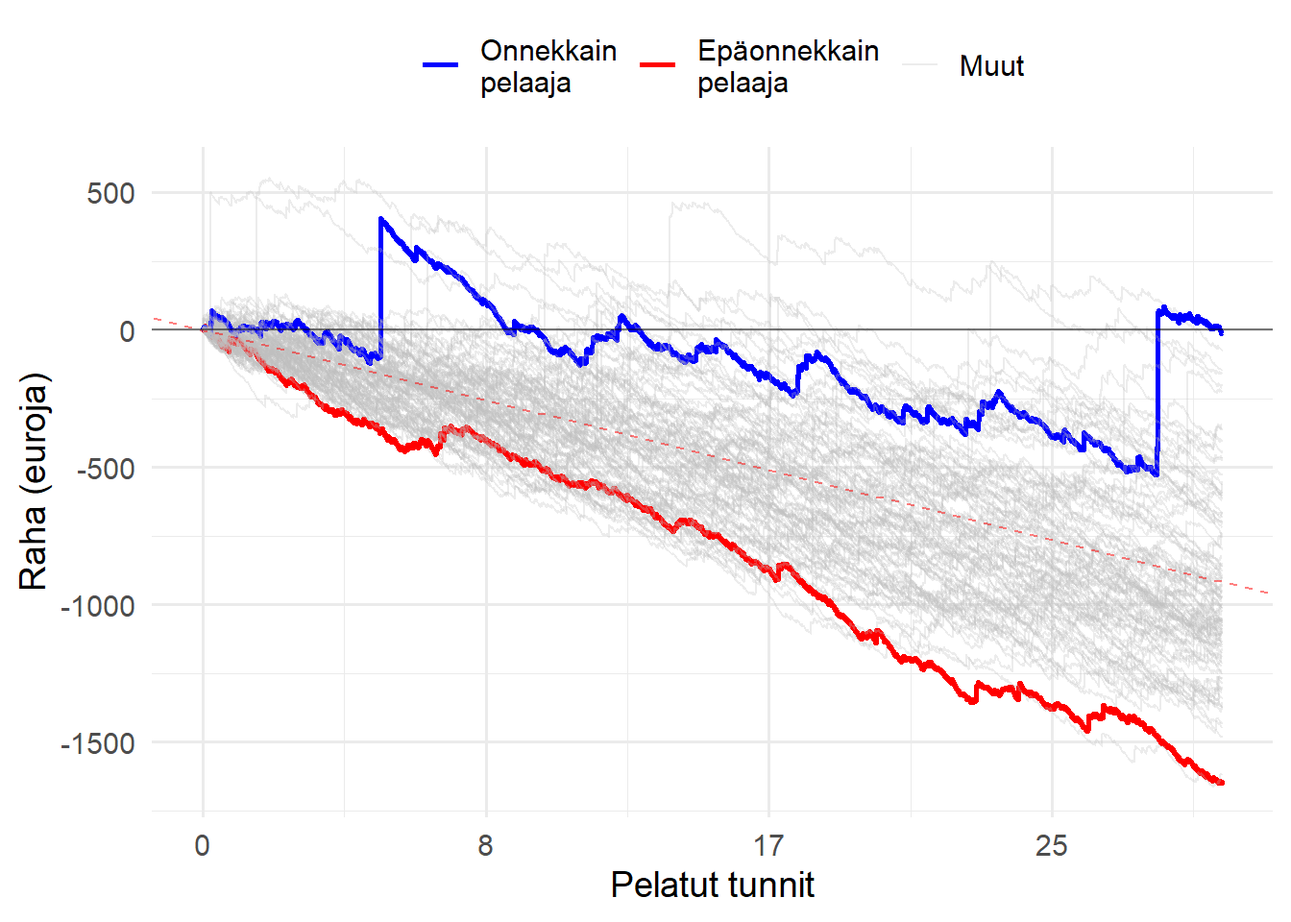
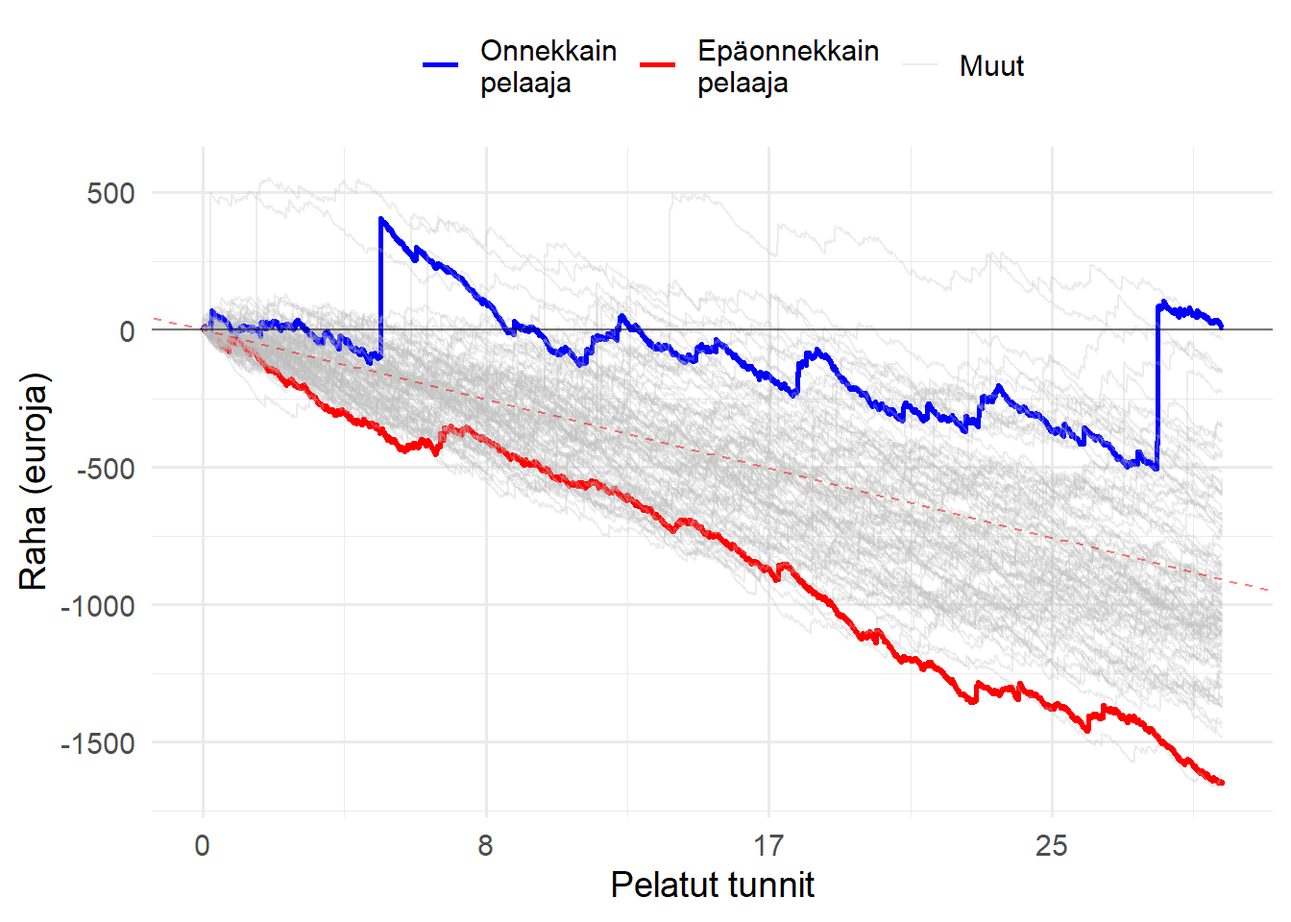
update

diff --git a/adjusting_variables.html b/adjusting_variables.html
@@ -365,6 +365,9 @@ div.tocify {
     <li>
       <a href="poker_simulator_animation.html">Poker variance simulator</a>
     </li>
+    <li>
+      <a href="videopoker_simulator.html">Videopokerisimulaattori (in Finnish)</a>
+    </li>
     <li class="divider"></li>
     <li class="dropdown-header">Content to be added</li>
     <li class="dropdown-header">TBA</li>
@@ -572,7 +575,7 @@ controlling for z merely reduces the variability in x:</p>
 <p>3d scatterplot:</p>
 <pre class="r"><code>OLS_visualizer(2,-2,0.8, &quot;3d&quot;)</code></pre>
 <div id="htmlwidget-72c4c1f4c48bc2d9714d" style="width:672px;height:480px;" class="plotly html-widget"></div>
-<script type="application/json" data-for="htmlwidget-72c4c1f4c48bc2d9714d">{"x":{"visdat":{"36ec5a503478":["function () ","plotlyVisDat"]},"cur_data":"36ec5a503478","attrs":{"36ec5a503478":{"x":[0.31085495641238,-0.0520464353045102,0.522579202941321,0.341249254036254,0.688516975685562,-2.11709514367188,-0.609031404817281,-0.709859360083,-0.248835610563112,-1.84775702505886,1.09517440858874,0.519663391436877,-1.71456433640338,-0.230494297003303,0.532956759084312,0.295284298581254,0.233707853616217,0.538662120260692,-0.269193229470511,0.312262260232234,0.753762378103371,-1.12161783164244,0.162241822286927,-0.614755113377645,0.245400566817298,-0.800562059642904,-0.0598937956236455,-0.568380292064193,0.424737653447154,0.394092969551822,0.352801428585162,0.468138217938677,-0.461991373711869,1.40377605333685,-0.874618824926513,1.29168612815949,0.0789206483578392,0.423910399547285,0.963218958378157,0.254205466623591,1.75502410708574,-1.32969494877127,1.81860102533616,0.581532190703476,0.777876827188424,0.410544735301677,-2.00675156151659,0.182757748437725,1.15349162038606,1.86077323983897,-0.377933328282843,-0.278328698261265,0.36033426242196,0.435133377342929,1.90804807998165,1.69776783060175,-1.19627748941927,0.161500863743166,1.49575019228862,-1.97128995385287,0.367522114903085,0.145075703314459,-0.873812784527575,-0.94190963067783,0.267724372942085,-2.18745127025797,-0.473889226691224,1.85756188160125,0.121233683695705,0.500021572672587,-2.18493444334109,-0.436377361699887,-0.308179678955058,-0.336310834376867,-0.19757498777725,0.062623846662712,-1.0138748346119,-2.12572260459879,-1.06446960158275,-1.48155217320545,0.935050879568882,-1.09687593685166,0.130049952546838,0.824579154719087,-0.377448744863543,0.200049774153956,-1.14060020846913,0.57069334891592,0.481487677845552,0.934238956410838,-0.096740939955459,-0.039075493638915,1.06360662729308,-0.644752842831254,1.68744798401772,1.15942283638065,-1.95906518209972,0.720583027548662,-0.923897229822331,0.129574456443967],"y":[-0.632469029142483,1.79501665853533,0.246989807783138,1.76441777365388,-1.98125704342689,1.20853819447843,1.20834847364629,1.43803443774424,0.648687614624098,-0.054585315144821,1.80473003578263,0.811738090339731,-1.41245320508927,-4.64903716559059,2.41682533577686,1.29926778291053,-0.487948460713588,-0.0801072522674631,1.65116247596695,0.636788642588897,-0.597510039270926,0.965243600925785,-0.680556841949899,-3.29733023429903,-0.437727909720595,1.57892149421246,-0.704257390378383,-3.8300203440646,-0.636497017956,0.695282195323865,0.77524365074527,-3.19300276355578,-0.241695828124132,0.325296347106017,-2.14854525020971,-0.852227226245305,-0.150634728227609,-1.42865932844918,2.48585482670126,0.915842181671843,0.301875097485784,0.537181570430926,1.03393571920966,-0.252762452264186,0.0279685673592833,-3.15758001527957,-0.161602384501926,0.673867623660246,-0.491248171128455,2.09050329191488,0.548817450557906,-0.607841265614926,0.2543357030089,-2.00111159147764,2.54448475649778,3.77048179353716,-3.06228414133941,-1.05733512411887,1.00904120732568,-0.748056037193659,4.18475723170407,-0.600019943560863,0.545569597087937,0.753555330196542,0.513259127033539,0.406983012659392,-3.11969708446258,0.706317035827446,-0.269714332043004,1.96905397719689,0.282869564090117,-0.757171962957854,-0.139767212778018,1.17996782424294,-1.76596308176864,1.38732713282318,-3.05774690647348,0.612198265809423,-1.35330995920799,-0.0501740942740713,-0.569009835282919,-0.740120368021603,2.8327491386781,-3.01566121086867,0.108541378952802,-0.686853445815867,0.691918543380786,0.355562124977239,0.797169924122145,1.21829812370991,-1.30897022500063,1.92877949934248,1.7174019942039,-0.584087531118845,3.84700226827586,0.756604313037095,-1.16940204672412,-0.0161331944886948,-1.9235596615279,-1.12954865279495],"z":[0.831790390809089,-0.105118121470154,1.19237851577074,-0.70641353313207,0.536527729752773,-1.47253344599401,-0.879672558257681,-1.15821291097327,-0.579879179448115,-1.56541015600998,0.110621474812591,0.324141667894267,-1.20846110584757,1.40892034701826,-0.18153677507668,0.40552291987576,0.323311799360204,-0.0479291314094219,-0.773653814615072,-0.0284866295092043,0.185908194326415,-1.6031737022652,0.187370076297804,0.863425713841667,-0.114021659640331,-0.6884518527904,0.126668881369936,0.543873173841567,0.841582881794895,0.178039695092626,-0.527733746992118,0.620179263876794,-0.66138431093236,1.52638169774409,0.169792162157037,1.66871036927952,0.434648376781702,0.545010744482137,0.26868006716465,-0.206387638351413,1.95774189204189,-1.08123186661801,1.41337337318898,0.26855961040256,1.34537482149245,0.989252270548726,-2.19834573926649,-0.282011417970892,1.31605518756779,1.32575354827359,-0.584231107010407,0.229175736258116,0.198339004411058,1.31185700227208,0.983581105042578,0.385641112441069,-0.866683526195495,0.976538203425519,1.17859179201511,-1.80989579603408,-1.24935009716054,0.250467084235702,-1.28876291397133,-0.889982406736199,0.870908458985616,-2.25591532611905,0.874867310646247,0.909846716257731,0.0905743602777017,-0.954420079180871,-2.45583551694554,0.139398203889826,-0.66422461857798,0.398288694049105,0.763412390939609,-0.0659360860214071,-0.629563371295211,-2.06132115890578,-1.04593720220453,-0.996563287263845,1.41862087493632,-0.930580042475748,-0.624195301703575,1.98179392552996,-0.722026586460212,0.0429404065491808,-1.82064878353622,0.865504763113842,0.299753790557061,0.827669503394403,0.362684840518017,-0.81528009742283,0.326988092434373,-1.0658377484631,0.653161493617511,0.848344510328943,-0.991564659158731,1.2062179632475,0.0125997502204857,0.541441072957958],"mode":"markers","alpha_stroke":1,"sizes":[10,100],"spans":[1,20],"type":"scatter3d"}},"layout":{"margin":{"b":40,"l":60,"t":25,"r":10},"scene":{"xaxis":{"title":[]},"yaxis":{"title":[]},"zaxis":{"title":[]}},"hovermode":"closest","showlegend":false},"source":"A","config":{"modeBarButtonsToAdd":["hoverclosest","hovercompare"],"showSendToCloud":false},"data":[{"x":[0.31085495641238,-0.0520464353045102,0.522579202941321,0.341249254036254,0.688516975685562,-2.11709514367188,-0.609031404817281,-0.709859360083,-0.248835610563112,-1.84775702505886,1.09517440858874,0.519663391436877,-1.71456433640338,-0.230494297003303,0.532956759084312,0.295284298581254,0.233707853616217,0.538662120260692,-0.269193229470511,0.312262260232234,0.753762378103371,-1.12161783164244,0.162241822286927,-0.614755113377645,0.245400566817298,-0.800562059642904,-0.0598937956236455,-0.568380292064193,0.424737653447154,0.394092969551822,0.352801428585162,0.468138217938677,-0.461991373711869,1.40377605333685,-0.874618824926513,1.29168612815949,0.0789206483578392,0.423910399547285,0.963218958378157,0.254205466623591,1.75502410708574,-1.32969494877127,1.81860102533616,0.581532190703476,0.777876827188424,0.410544735301677,-2.00675156151659,0.182757748437725,1.15349162038606,1.86077323983897,-0.377933328282843,-0.278328698261265,0.36033426242196,0.435133377342929,1.90804807998165,1.69776783060175,-1.19627748941927,0.161500863743166,1.49575019228862,-1.97128995385287,0.367522114903085,0.145075703314459,-0.873812784527575,-0.94190963067783,0.267724372942085,-2.18745127025797,-0.473889226691224,1.85756188160125,0.121233683695705,0.500021572672587,-2.18493444334109,-0.436377361699887,-0.308179678955058,-0.336310834376867,-0.19757498777725,0.062623846662712,-1.0138748346119,-2.12572260459879,-1.06446960158275,-1.48155217320545,0.935050879568882,-1.09687593685166,0.130049952546838,0.824579154719087,-0.377448744863543,0.200049774153956,-1.14060020846913,0.57069334891592,0.481487677845552,0.934238956410838,-0.096740939955459,-0.039075493638915,1.06360662729308,-0.644752842831254,1.68744798401772,1.15942283638065,-1.95906518209972,0.720583027548662,-0.923897229822331,0.129574456443967],"y":[-0.632469029142483,1.79501665853533,0.246989807783138,1.76441777365388,-1.98125704342689,1.20853819447843,1.20834847364629,1.43803443774424,0.648687614624098,-0.054585315144821,1.80473003578263,0.811738090339731,-1.41245320508927,-4.64903716559059,2.41682533577686,1.29926778291053,-0.487948460713588,-0.0801072522674631,1.65116247596695,0.636788642588897,-0.597510039270926,0.965243600925785,-0.680556841949899,-3.29733023429903,-0.437727909720595,1.57892149421246,-0.704257390378383,-3.8300203440646,-0.636497017956,0.695282195323865,0.77524365074527,-3.19300276355578,-0.241695828124132,0.325296347106017,-2.14854525020971,-0.852227226245305,-0.150634728227609,-1.42865932844918,2.48585482670126,0.915842181671843,0.301875097485784,0.537181570430926,1.03393571920966,-0.252762452264186,0.0279685673592833,-3.15758001527957,-0.161602384501926,0.673867623660246,-0.491248171128455,2.09050329191488,0.548817450557906,-0.607841265614926,0.2543357030089,-2.00111159147764,2.54448475649778,3.77048179353716,-3.06228414133941,-1.05733512411887,1.00904120732568,-0.748056037193659,4.18475723170407,-0.600019943560863,0.545569597087937,0.753555330196542,0.513259127033539,0.406983012659392,-3.11969708446258,0.706317035827446,-0.269714332043004,1.96905397719689,0.282869564090117,-0.757171962957854,-0.139767212778018,1.17996782424294,-1.76596308176864,1.38732713282318,-3.05774690647348,0.612198265809423,-1.35330995920799,-0.0501740942740713,-0.569009835282919,-0.740120368021603,2.8327491386781,-3.01566121086867,0.108541378952802,-0.686853445815867,0.691918543380786,0.355562124977239,0.797169924122145,1.21829812370991,-1.30897022500063,1.92877949934248,1.7174019942039,-0.584087531118845,3.84700226827586,0.756604313037095,-1.16940204672412,-0.0161331944886948,-1.9235596615279,-1.12954865279495],"z":[0.831790390809089,-0.105118121470154,1.19237851577074,-0.70641353313207,0.536527729752773,-1.47253344599401,-0.879672558257681,-1.15821291097327,-0.579879179448115,-1.56541015600998,0.110621474812591,0.324141667894267,-1.20846110584757,1.40892034701826,-0.18153677507668,0.40552291987576,0.323311799360204,-0.0479291314094219,-0.773653814615072,-0.0284866295092043,0.185908194326415,-1.6031737022652,0.187370076297804,0.863425713841667,-0.114021659640331,-0.6884518527904,0.126668881369936,0.543873173841567,0.841582881794895,0.178039695092626,-0.527733746992118,0.620179263876794,-0.66138431093236,1.52638169774409,0.169792162157037,1.66871036927952,0.434648376781702,0.545010744482137,0.26868006716465,-0.206387638351413,1.95774189204189,-1.08123186661801,1.41337337318898,0.26855961040256,1.34537482149245,0.989252270548726,-2.19834573926649,-0.282011417970892,1.31605518756779,1.32575354827359,-0.584231107010407,0.229175736258116,0.198339004411058,1.31185700227208,0.983581105042578,0.385641112441069,-0.866683526195495,0.976538203425519,1.17859179201511,-1.80989579603408,-1.24935009716054,0.250467084235702,-1.28876291397133,-0.889982406736199,0.870908458985616,-2.25591532611905,0.874867310646247,0.909846716257731,0.0905743602777017,-0.954420079180871,-2.45583551694554,0.139398203889826,-0.66422461857798,0.398288694049105,0.763412390939609,-0.0659360860214071,-0.629563371295211,-2.06132115890578,-1.04593720220453,-0.996563287263845,1.41862087493632,-0.930580042475748,-0.624195301703575,1.98179392552996,-0.722026586460212,0.0429404065491808,-1.82064878353622,0.865504763113842,0.299753790557061,0.827669503394403,0.362684840518017,-0.81528009742283,0.326988092434373,-1.0658377484631,0.653161493617511,0.848344510328943,-0.991564659158731,1.2062179632475,0.0125997502204857,0.541441072957958],"mode":"markers","type":"scatter3d","marker":{"color":"rgba(31,119,180,1)","line":{"color":"rgba(31,119,180,1)"}},"error_y":{"color":"rgba(31,119,180,1)"},"error_x":{"color":"rgba(31,119,180,1)"},"line":{"color":"rgba(31,119,180,1)"},"frame":null}],"highlight":{"on":"plotly_click","persistent":false,"dynamic":false,"selectize":false,"opacityDim":0.2,"selected":{"opacity":1},"debounce":0},"shinyEvents":["plotly_hover","plotly_click","plotly_selected","plotly_relayout","plotly_brushed","plotly_brushing","plotly_clickannotation","plotly_doubleclick","plotly_deselect","plotly_afterplot","plotly_sunburstclick"],"base_url":"https://plot.ly"},"evals":[],"jsHooks":[]}</script>
+<script type="application/json" data-for="htmlwidget-72c4c1f4c48bc2d9714d">{"x":{"visdat":{"34382d9f3fcb":["function () ","plotlyVisDat"]},"cur_data":"34382d9f3fcb","attrs":{"34382d9f3fcb":{"x":[0.31085495641238,-0.0520464353045102,0.522579202941321,0.341249254036254,0.688516975685562,-2.11709514367188,-0.609031404817281,-0.709859360083,-0.248835610563112,-1.84775702505886,1.09517440858874,0.519663391436877,-1.71456433640338,-0.230494297003303,0.532956759084312,0.295284298581254,0.233707853616217,0.538662120260692,-0.269193229470511,0.312262260232234,0.753762378103371,-1.12161783164244,0.162241822286927,-0.614755113377645,0.245400566817298,-0.800562059642904,-0.0598937956236455,-0.568380292064193,0.424737653447154,0.394092969551822,0.352801428585162,0.468138217938677,-0.461991373711869,1.40377605333685,-0.874618824926513,1.29168612815949,0.0789206483578392,0.423910399547285,0.963218958378157,0.254205466623591,1.75502410708574,-1.32969494877127,1.81860102533616,0.581532190703476,0.777876827188424,0.410544735301677,-2.00675156151659,0.182757748437725,1.15349162038606,1.86077323983897,-0.377933328282843,-0.278328698261265,0.36033426242196,0.435133377342929,1.90804807998165,1.69776783060175,-1.19627748941927,0.161500863743166,1.49575019228862,-1.97128995385287,0.367522114903085,0.145075703314459,-0.873812784527575,-0.94190963067783,0.267724372942085,-2.18745127025797,-0.473889226691224,1.85756188160125,0.121233683695705,0.500021572672587,-2.18493444334109,-0.436377361699887,-0.308179678955058,-0.336310834376867,-0.19757498777725,0.062623846662712,-1.0138748346119,-2.12572260459879,-1.06446960158275,-1.48155217320545,0.935050879568882,-1.09687593685166,0.130049952546838,0.824579154719087,-0.377448744863543,0.200049774153956,-1.14060020846913,0.57069334891592,0.481487677845552,0.934238956410838,-0.096740939955459,-0.039075493638915,1.06360662729308,-0.644752842831254,1.68744798401772,1.15942283638065,-1.95906518209972,0.720583027548662,-0.923897229822331,0.129574456443967],"y":[-0.632469029142483,1.79501665853533,0.246989807783138,1.76441777365388,-1.98125704342689,1.20853819447843,1.20834847364629,1.43803443774424,0.648687614624098,-0.054585315144821,1.80473003578263,0.811738090339731,-1.41245320508927,-4.64903716559059,2.41682533577686,1.29926778291053,-0.487948460713588,-0.0801072522674631,1.65116247596695,0.636788642588897,-0.597510039270926,0.965243600925785,-0.680556841949899,-3.29733023429903,-0.437727909720595,1.57892149421246,-0.704257390378383,-3.8300203440646,-0.636497017956,0.695282195323865,0.77524365074527,-3.19300276355578,-0.241695828124132,0.325296347106017,-2.14854525020971,-0.852227226245305,-0.150634728227609,-1.42865932844918,2.48585482670126,0.915842181671843,0.301875097485784,0.537181570430926,1.03393571920966,-0.252762452264186,0.0279685673592833,-3.15758001527957,-0.161602384501926,0.673867623660246,-0.491248171128455,2.09050329191488,0.548817450557906,-0.607841265614926,0.2543357030089,-2.00111159147764,2.54448475649778,3.77048179353716,-3.06228414133941,-1.05733512411887,1.00904120732568,-0.748056037193659,4.18475723170407,-0.600019943560863,0.545569597087937,0.753555330196542,0.513259127033539,0.406983012659392,-3.11969708446258,0.706317035827446,-0.269714332043004,1.96905397719689,0.282869564090117,-0.757171962957854,-0.139767212778018,1.17996782424294,-1.76596308176864,1.38732713282318,-3.05774690647348,0.612198265809423,-1.35330995920799,-0.0501740942740713,-0.569009835282919,-0.740120368021603,2.8327491386781,-3.01566121086867,0.108541378952802,-0.686853445815867,0.691918543380786,0.355562124977239,0.797169924122145,1.21829812370991,-1.30897022500063,1.92877949934248,1.7174019942039,-0.584087531118845,3.84700226827586,0.756604313037095,-1.16940204672412,-0.0161331944886948,-1.9235596615279,-1.12954865279495],"z":[0.831790390809089,-0.105118121470154,1.19237851577074,-0.70641353313207,0.536527729752773,-1.47253344599401,-0.879672558257681,-1.15821291097327,-0.579879179448115,-1.56541015600998,0.110621474812591,0.324141667894267,-1.20846110584757,1.40892034701826,-0.18153677507668,0.40552291987576,0.323311799360204,-0.0479291314094219,-0.773653814615072,-0.0284866295092043,0.185908194326415,-1.6031737022652,0.187370076297804,0.863425713841667,-0.114021659640331,-0.6884518527904,0.126668881369936,0.543873173841567,0.841582881794895,0.178039695092626,-0.527733746992118,0.620179263876794,-0.66138431093236,1.52638169774409,0.169792162157037,1.66871036927952,0.434648376781702,0.545010744482137,0.26868006716465,-0.206387638351413,1.95774189204189,-1.08123186661801,1.41337337318898,0.26855961040256,1.34537482149245,0.989252270548726,-2.19834573926649,-0.282011417970892,1.31605518756779,1.32575354827359,-0.584231107010407,0.229175736258116,0.198339004411058,1.31185700227208,0.983581105042578,0.385641112441069,-0.866683526195495,0.976538203425519,1.17859179201511,-1.80989579603408,-1.24935009716054,0.250467084235702,-1.28876291397133,-0.889982406736199,0.870908458985616,-2.25591532611905,0.874867310646247,0.909846716257731,0.0905743602777017,-0.954420079180871,-2.45583551694554,0.139398203889826,-0.66422461857798,0.398288694049105,0.763412390939609,-0.0659360860214071,-0.629563371295211,-2.06132115890578,-1.04593720220453,-0.996563287263845,1.41862087493632,-0.930580042475748,-0.624195301703575,1.98179392552996,-0.722026586460212,0.0429404065491808,-1.82064878353622,0.865504763113842,0.299753790557061,0.827669503394403,0.362684840518017,-0.81528009742283,0.326988092434373,-1.0658377484631,0.653161493617511,0.848344510328943,-0.991564659158731,1.2062179632475,0.0125997502204857,0.541441072957958],"mode":"markers","alpha_stroke":1,"sizes":[10,100],"spans":[1,20],"type":"scatter3d"}},"layout":{"margin":{"b":40,"l":60,"t":25,"r":10},"scene":{"xaxis":{"title":[]},"yaxis":{"title":[]},"zaxis":{"title":[]}},"hovermode":"closest","showlegend":false},"source":"A","config":{"modeBarButtonsToAdd":["hoverclosest","hovercompare"],"showSendToCloud":false},"data":[{"x":[0.31085495641238,-0.0520464353045102,0.522579202941321,0.341249254036254,0.688516975685562,-2.11709514367188,-0.609031404817281,-0.709859360083,-0.248835610563112,-1.84775702505886,1.09517440858874,0.519663391436877,-1.71456433640338,-0.230494297003303,0.532956759084312,0.295284298581254,0.233707853616217,0.538662120260692,-0.269193229470511,0.312262260232234,0.753762378103371,-1.12161783164244,0.162241822286927,-0.614755113377645,0.245400566817298,-0.800562059642904,-0.0598937956236455,-0.568380292064193,0.424737653447154,0.394092969551822,0.352801428585162,0.468138217938677,-0.461991373711869,1.40377605333685,-0.874618824926513,1.29168612815949,0.0789206483578392,0.423910399547285,0.963218958378157,0.254205466623591,1.75502410708574,-1.32969494877127,1.81860102533616,0.581532190703476,0.777876827188424,0.410544735301677,-2.00675156151659,0.182757748437725,1.15349162038606,1.86077323983897,-0.377933328282843,-0.278328698261265,0.36033426242196,0.435133377342929,1.90804807998165,1.69776783060175,-1.19627748941927,0.161500863743166,1.49575019228862,-1.97128995385287,0.367522114903085,0.145075703314459,-0.873812784527575,-0.94190963067783,0.267724372942085,-2.18745127025797,-0.473889226691224,1.85756188160125,0.121233683695705,0.500021572672587,-2.18493444334109,-0.436377361699887,-0.308179678955058,-0.336310834376867,-0.19757498777725,0.062623846662712,-1.0138748346119,-2.12572260459879,-1.06446960158275,-1.48155217320545,0.935050879568882,-1.09687593685166,0.130049952546838,0.824579154719087,-0.377448744863543,0.200049774153956,-1.14060020846913,0.57069334891592,0.481487677845552,0.934238956410838,-0.096740939955459,-0.039075493638915,1.06360662729308,-0.644752842831254,1.68744798401772,1.15942283638065,-1.95906518209972,0.720583027548662,-0.923897229822331,0.129574456443967],"y":[-0.632469029142483,1.79501665853533,0.246989807783138,1.76441777365388,-1.98125704342689,1.20853819447843,1.20834847364629,1.43803443774424,0.648687614624098,-0.054585315144821,1.80473003578263,0.811738090339731,-1.41245320508927,-4.64903716559059,2.41682533577686,1.29926778291053,-0.487948460713588,-0.0801072522674631,1.65116247596695,0.636788642588897,-0.597510039270926,0.965243600925785,-0.680556841949899,-3.29733023429903,-0.437727909720595,1.57892149421246,-0.704257390378383,-3.8300203440646,-0.636497017956,0.695282195323865,0.77524365074527,-3.19300276355578,-0.241695828124132,0.325296347106017,-2.14854525020971,-0.852227226245305,-0.150634728227609,-1.42865932844918,2.48585482670126,0.915842181671843,0.301875097485784,0.537181570430926,1.03393571920966,-0.252762452264186,0.0279685673592833,-3.15758001527957,-0.161602384501926,0.673867623660246,-0.491248171128455,2.09050329191488,0.548817450557906,-0.607841265614926,0.2543357030089,-2.00111159147764,2.54448475649778,3.77048179353716,-3.06228414133941,-1.05733512411887,1.00904120732568,-0.748056037193659,4.18475723170407,-0.600019943560863,0.545569597087937,0.753555330196542,0.513259127033539,0.406983012659392,-3.11969708446258,0.706317035827446,-0.269714332043004,1.96905397719689,0.282869564090117,-0.757171962957854,-0.139767212778018,1.17996782424294,-1.76596308176864,1.38732713282318,-3.05774690647348,0.612198265809423,-1.35330995920799,-0.0501740942740713,-0.569009835282919,-0.740120368021603,2.8327491386781,-3.01566121086867,0.108541378952802,-0.686853445815867,0.691918543380786,0.355562124977239,0.797169924122145,1.21829812370991,-1.30897022500063,1.92877949934248,1.7174019942039,-0.584087531118845,3.84700226827586,0.756604313037095,-1.16940204672412,-0.0161331944886948,-1.9235596615279,-1.12954865279495],"z":[0.831790390809089,-0.105118121470154,1.19237851577074,-0.70641353313207,0.536527729752773,-1.47253344599401,-0.879672558257681,-1.15821291097327,-0.579879179448115,-1.56541015600998,0.110621474812591,0.324141667894267,-1.20846110584757,1.40892034701826,-0.18153677507668,0.40552291987576,0.323311799360204,-0.0479291314094219,-0.773653814615072,-0.0284866295092043,0.185908194326415,-1.6031737022652,0.187370076297804,0.863425713841667,-0.114021659640331,-0.6884518527904,0.126668881369936,0.543873173841567,0.841582881794895,0.178039695092626,-0.527733746992118,0.620179263876794,-0.66138431093236,1.52638169774409,0.169792162157037,1.66871036927952,0.434648376781702,0.545010744482137,0.26868006716465,-0.206387638351413,1.95774189204189,-1.08123186661801,1.41337337318898,0.26855961040256,1.34537482149245,0.989252270548726,-2.19834573926649,-0.282011417970892,1.31605518756779,1.32575354827359,-0.584231107010407,0.229175736258116,0.198339004411058,1.31185700227208,0.983581105042578,0.385641112441069,-0.866683526195495,0.976538203425519,1.17859179201511,-1.80989579603408,-1.24935009716054,0.250467084235702,-1.28876291397133,-0.889982406736199,0.870908458985616,-2.25591532611905,0.874867310646247,0.909846716257731,0.0905743602777017,-0.954420079180871,-2.45583551694554,0.139398203889826,-0.66422461857798,0.398288694049105,0.763412390939609,-0.0659360860214071,-0.629563371295211,-2.06132115890578,-1.04593720220453,-0.996563287263845,1.41862087493632,-0.930580042475748,-0.624195301703575,1.98179392552996,-0.722026586460212,0.0429404065491808,-1.82064878353622,0.865504763113842,0.299753790557061,0.827669503394403,0.362684840518017,-0.81528009742283,0.326988092434373,-1.0658377484631,0.653161493617511,0.848344510328943,-0.991564659158731,1.2062179632475,0.0125997502204857,0.541441072957958],"mode":"markers","type":"scatter3d","marker":{"color":"rgba(31,119,180,1)","line":{"color":"rgba(31,119,180,1)"}},"error_y":{"color":"rgba(31,119,180,1)"},"error_x":{"color":"rgba(31,119,180,1)"},"line":{"color":"rgba(31,119,180,1)"},"frame":null}],"highlight":{"on":"plotly_click","persistent":false,"dynamic":false,"selectize":false,"opacityDim":0.2,"selected":{"opacity":1},"debounce":0},"shinyEvents":["plotly_hover","plotly_click","plotly_selected","plotly_relayout","plotly_brushed","plotly_brushing","plotly_clickannotation","plotly_doubleclick","plotly_deselect","plotly_afterplot","plotly_sunburstclick"],"base_url":"https://plot.ly"},"evals":[],"jsHooks":[]}</script>
 </div>
 
 

diff --git a/videopoker_simulator.html b/videopoker_simulator.html
@@ -362,6 +362,9 @@ div.tocify {
     <li>
       <a href="poker_simulator_animation.html">Poker variance simulator</a>
     </li>
+    <li>
+      <a href="videopoker_simulator.html">Videopokerisimulaattori (in Finnish)</a>
+    </li>
     <li class="divider"></li>
     <li class="dropdown-header">Content to be added</li>
     <li class="dropdown-header">TBA</li>
@@ -399,50 +402,42 @@ div.tocify {
 </div>
 
 
-<p>Videopokerisimulaation taustaoletukset:</p>
+<p>Videopokerisimulaattorin tarkoitus on havainnollistaa tyypillisen
+videopokeripelin voittojen ja häviöiden jakautumista useiden eri
+pelaajien välillä. Simulaattori on viestinnällinen työkalu. Se on
+tarkoitettu erityisesti pelaajille, jotka eivät ole perehtyneet
+rahapelien logiikkaan ja joilla on tavanomaista korkeampi
+rahapeliongelman riski. Videopokerisimulaation taustaoletukset:</p>
 <ul>
-<li>Pelin palautusprosentti ≈ 90%</li>
 <li>Jokaisessa panostuskierroksessa on 1 euron panos</li>
 <li>Pelataan 5 panostuskierrosta minuutissa</li>
-<li>Käsien voittosumma (ja todennäköisyys):
+<li>Käsien voittosumma euroissa korkean / matalan volatiliteetin pelissä
+(sulkeissa todennäköisyys optimistrategialla)
 <ul>
-<li>Korkea volatiliteetti
-<ul>
-<li>Kuningasvärisuora: 500 (0.002%)</li>
-<li>Värisuora: 55 (0.011%)</li>
-<li>Neljä samaa: 45 (0.236%)</li>
-<li>Täyskäsi: 13 (1.151%)</li>
-<li>Väri: 7 (1.101%)</li>
-<li>Suora: 6 (1.123%)</li>
-<li>Kolme samaa: 3 (7.445%)</li>
-<li>Kaksi paria: 2 (12.928%)</li>
+<li>Kuningasvärisuora: 500e / 100e (0.002%)</li>
+<li>Värisuora: 55e / 50e (0.011%)</li>
+<li>Neljä samaa: 45e / 30e (0.236%)</li>
+<li>Täyskäsi: 13e / 15e (1.151%)</li>
+<li>Väri: 7e / 8e (1.101%)</li>
+<li>Suora: 6e / 7e (1.123%)</li>
+<li>Kolme samaa: 3e / 3e (7.445%)</li>
+<li>Kaksi paria: 2e / 2e (12.928%)</li>
 </ul></li>
-<li>Matala volatiliteetti
-<ul>
-<li>Kuningasvärisuora: 100 (0.002%)</li>
-<li>Värisuora: 50 (0.011%)</li>
-<li>Neljä samaa: 30 (0.236%)</li>
-<li>Täyskäsi: 15 (1.151%)</li>
-<li>Väri: 8 (1.101%)</li>
-<li>Suora: 7 (1.123%)</li>
-<li>Kolme samaa: 3 (7.445%)</li>
-<li>Kaksi paria: 2 (12.928%)</li>
-</ul></li>
-</ul></li>
-<li>Kuvissa havainnollistetaan “onnekkain” ja “epäonnekkain” pelaaja,
-millä viitataan simuloidun jakson jälkeiseen lopputilanteeseen eli
-siihen, kenellä on eniten ja kenellä vähiten rahaa</li>
-<li>Simulaatiot eivät välttämättä vastaa yksityiskohdiltaan esimerkiksi
-Veikkauksen tarjoamia videopokeripelejä</li>
-<li>Huom! Simulaatioissa oletetaan, että pelaajat pelaavat peliä
+<li>Palautusprosentit optimistrategialla: 89.955% (korkea
+volatiliteetti) ja 89.934% (matala volatiliteetti)</li>
+<li>Simulaatioissa oletetaan, että pelaajat pelaavat peliä
 optimistrategiaa hyödyntäen</li>
+<li>Kuvissa havainnollistetaan “onnekkain” ja “epäonnekkain” pelaaja,
+eli parhaiten ja heikoiten simulaation lopussa menestynyt pelaaja</li>
+<li>Simulaatiot eivät todennäköisesti vastaa yksityiskohdiltaan
+esimerkiksi Veikkauksen tarjoamia videopokeripelejä (Veikkauksen
+yksityiskohtaiset pelitiedot eivät ole saatavilla)</li>
 </ul>
-<p><b>TL;DR:</b></p>
-<p>Alla esitetään videopokerisimulaatioita Mitä enemmän peliä pelaa,
-sitä enemmän rahaa häviää. Jotkut harvat ja onnekkaat voivat jäädä
-pelistä lyhyellä aikavälillä voitolle, erityisesti jos pelissä on korkea
-volatiliteetti, mutta riittävän pitkällä aikavälillä kaikki lopulta
-häviävät.</p>
+<p><b>TL;DR:</b> Alla esitetään videopokerisimulaatioita tyypillisestä
+videopokeripelistä. Mitä enemmän peliä pelaa, sitä enemmän rahaa häviää.
+Jotkut harvat ja onnekkaat saattavat jäädä pelistä lyhyellä aikavälillä
+voitolle, erityisesti jos pelissä on korkea volatiliteetti. Riittävän
+pitkällä aikavälillä kaikki kuitenkin lopulta häviävät.</p>
 <pre class="r"><code>library(tidyverse)
 library(gganimate)
 library(transformr)
@@ -460,9 +455,9 @@ casino_simulator &lt;- function(rounds, players, topbottom = F, volatility = &qu
   }
   
   else {
-    payout &lt;- c(500, 55, 45, 13, 7, 6, 3, 2, 0) - 1
+    payout &lt;- c(500, 65, 45, 13, 7, 6, 3, 2, 0) - 1
     probability &lt;- c(0.002, 0.011, 0.236, 1.151, 1.101, 1.123, 7.445, 12.928, 76.003)/100
-    ev &lt;- sum(payout*probability) #ev = -0.1076
+    ev &lt;- sum(payout*probability) #ev = -0.10066
   }
 
   for (i in 1:players) {
@@ -501,7 +496,6 @@ casino_simulator &lt;- function(rounds, players, topbottom = F, volatility = &qu
                                labels = c(&quot;Onnekkain\npelaaja&quot;, &quot;Epäonnekkain\npelaaja&quot;))) %&gt;%
     ggplot(aes(ID, value, group=key)) +
     geom_line(aes(colour = key)) +
-    
     geom_abline(intercept = 0, slope = ev, linetype=&quot;dashed&quot;, size=0.5, color=&quot;red&quot;, alpha=.5) +
     geom_hline(yintercept = 0, size=0.5, alpha=.5) +
     xlab(&quot;Pelatut tunnit&quot;) + ylab(&quot;Raha (euroja)&quot;) +
@@ -517,8 +511,6 @@ casino_simulator &lt;- function(rounds, players, topbottom = F, volatility = &qu
                   maxmin = factor(maxmin, levels = c(&quot;Onnekkain\npelaaja&quot;, &quot;Epäonnekkain\npelaaja&quot;, &quot;Muut&quot;))) %&gt;%
     ggplot(aes(ID, value, group=key)) +
     geom_line(aes(colour = maxmin, alpha = maxmin, size = maxmin)) +
-    
-    #Old version: slope = ev
     geom_abline(intercept = 0, slope = ev, linetype=&quot;dashed&quot;, size=0.5, color=&quot;red&quot;, alpha=.5) +
     geom_hline(yintercept = 0, size=0.5, alpha=.5) +
     xlab(&quot;Pelatut tunnit&quot;) + ylab(&quot;Raha (euroja)&quot;) +

diff --git a/index.html b/index.html
@@ -281,6 +281,9 @@ $(document).ready(function () {
     <li>
       <a href="poker_simulator_animation.html">Poker variance simulator</a>
     </li>
+    <li>
+      <a href="videopoker_simulator.html">Videopokerisimulaattori (in Finnish)</a>
+    </li>
     <li class="divider"></li>
     <li class="dropdown-header">Content to be added</li>
     <li class="dropdown-header">TBA</li>
@@ -333,7 +336,8 @@ of Helsinki</a href>, and
 <a href="https://scholar.google.fi/citations?user=oKOImCYAAAAJ&hl=fi&oi=ao" target="_blank">Google
 Scholar</a href>.</p>
 <p>Updates:</p>
-<p>14.2.23 Added a poker variance simulator in “Other”</p>
+<p>20.2.23 Added a videopoker simulator in “Other” (only in Finnish,
+sorry :/) 14.2.23 Added a poker variance simulator in “Other”</p>
 <p><br> <br> <br></p>
 
 

diff --git a/Teaching.html b/Teaching.html
@@ -281,6 +281,9 @@ $(document).ready(function () {
     <li>
       <a href="poker_simulator_animation.html">Poker variance simulator</a>
     </li>
+    <li>
+      <a href="videopoker_simulator.html">Videopokerisimulaattori (in Finnish)</a>
+    </li>
     <li class="divider"></li>
     <li class="dropdown-header">Content to be added</li>
     <li class="dropdown-header">TBA</li>

diff --git a/academic_activity.html b/academic_activity.html
@@ -281,6 +281,9 @@ $(document).ready(function () {
     <li>
       <a href="poker_simulator_animation.html">Poker variance simulator</a>
     </li>
+    <li>
+      <a href="videopoker_simulator.html">Videopokerisimulaattori (in Finnish)</a>
+    </li>
     <li class="divider"></li>
     <li class="dropdown-header">Content to be added</li>
     <li class="dropdown-header">TBA</li>

diff --git a/communication.html b/communication.html
@@ -281,6 +281,9 @@ $(document).ready(function () {
     <li>
       <a href="poker_simulator_animation.html">Poker variance simulator</a>
     </li>
+    <li>
+      <a href="videopoker_simulator.html">Videopokerisimulaattori (in Finnish)</a>
+    </li>
     <li class="divider"></li>
     <li class="dropdown-header">Content to be added</li>
     <li class="dropdown-header">TBA</li>

diff --git a/contact.html b/contact.html
@@ -281,6 +281,9 @@ $(document).ready(function () {
     <li>
       <a href="poker_simulator_animation.html">Poker variance simulator</a>
     </li>
+    <li>
+      <a href="videopoker_simulator.html">Videopokerisimulaattori (in Finnish)</a>
+    </li>
     <li class="divider"></li>
     <li class="dropdown-header">Content to be added</li>
     <li class="dropdown-header">TBA</li>

diff --git a/poker_simulator_animation.html b/poker_simulator_animation.html
@@ -286,6 +286,9 @@ $(document).ready(function () {
     <li>
       <a href="poker_simulator_animation.html">Poker variance simulator</a>
     </li>
+    <li>
+      <a href="videopoker_simulator.html">Videopokerisimulaattori (in Finnish)</a>
+    </li>
     <li class="divider"></li>
     <li class="dropdown-header">Content to be added</li>
     <li class="dropdown-header">TBA</li>

diff --git a/Research.html b/Research.html
@@ -357,6 +357,9 @@ div.tocify {
     <li>
       <a href="poker_simulator_animation.html">Poker variance simulator</a>
     </li>
+    <li>
+      <a href="videopoker_simulator.html">Videopokerisimulaattori (in Finnish)</a>
+    </li>
     <li class="divider"></li>
     <li class="dropdown-header">Content to be added</li>
     <li class="dropdown-header">TBA</li>
